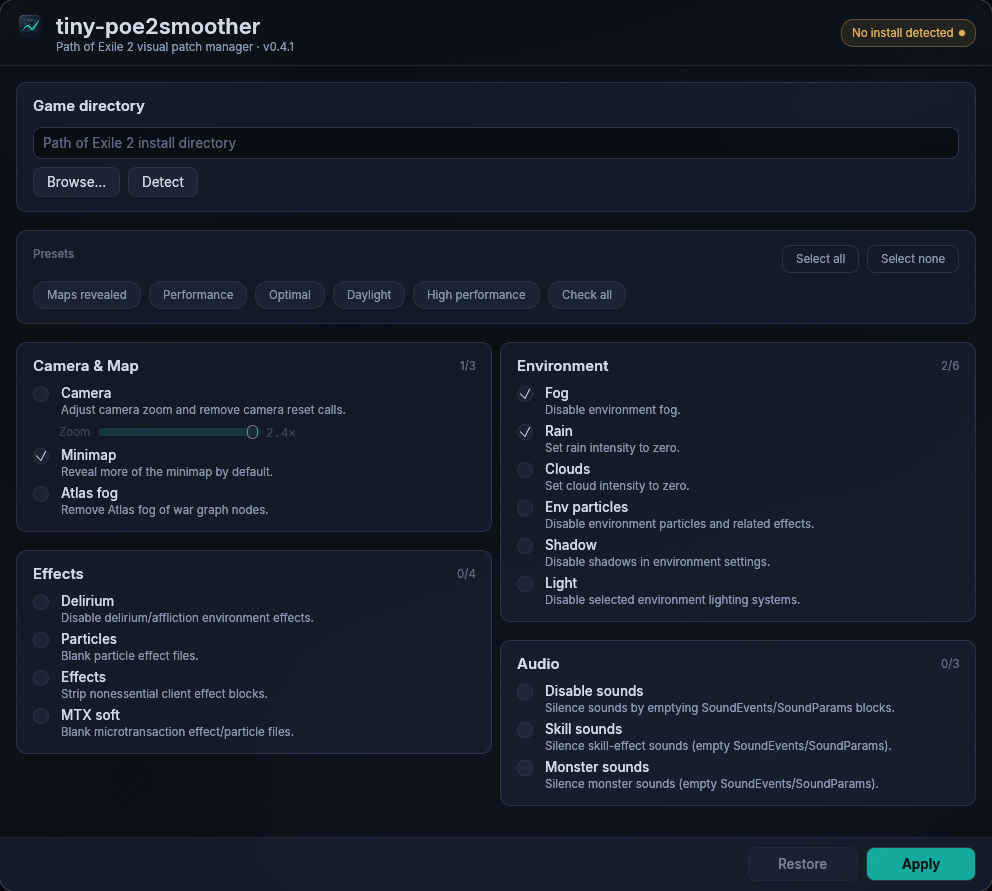
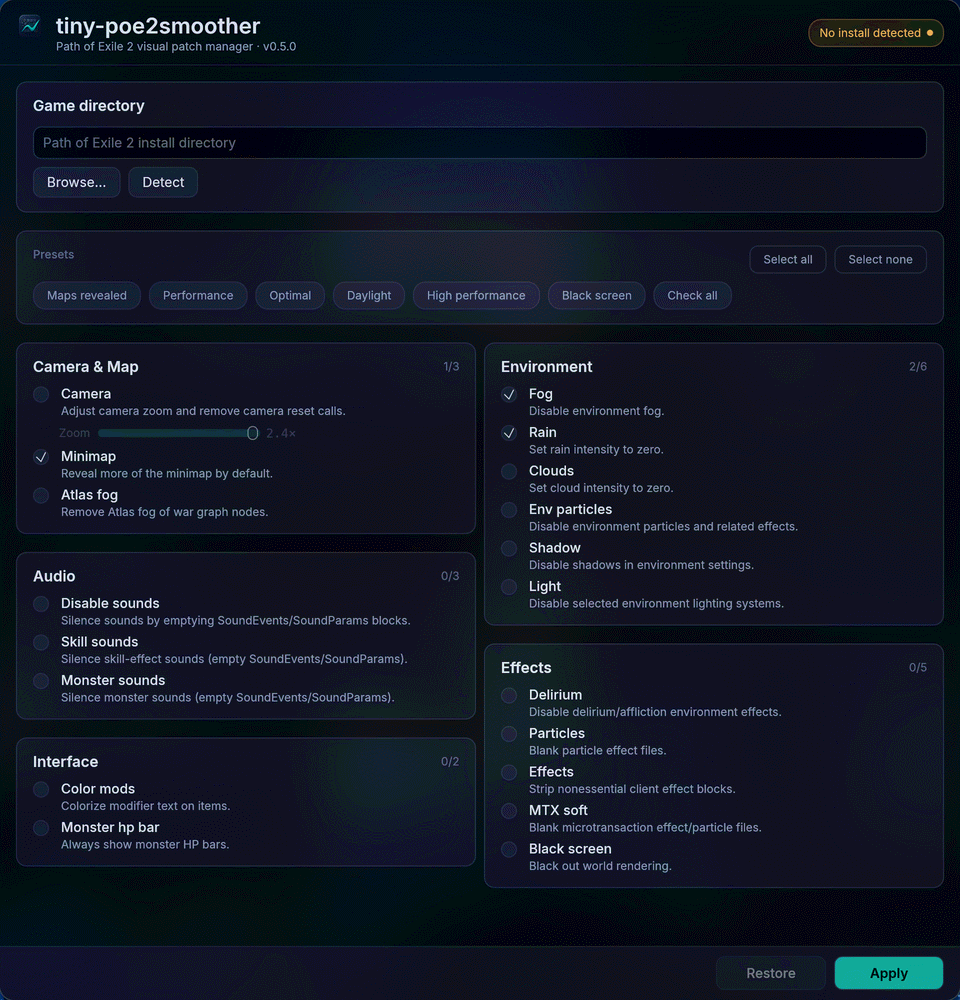
rebalance patch columns & update screenshot

diff --git a/src/gui/views.rs b/src/gui/views.rs
@@ -47,8 +47,8 @@ const GROUPS: &[(&str, &[PatchId])] = &[
     ("Interface", &[PatchId::ColorMods, PatchId::MonsterHpBar]),
 ];
 
-// Column packing chosen to roughly balance row counts (3+5+2 vs 6+3).
-const COLUMNS: [&[usize]; 2] = [&[0, 2, 4], &[1, 3]];
+// Column packing chosen to roughly balance column heights (3+3+2 vs 6+5).
+const COLUMNS: [&[usize]; 2] = [&[0, 3, 4], &[1, 2]];
 
 pub fn draw(app: &mut GuiApp, ui: &mut egui::Ui) {
     draw_header(app, ui);
